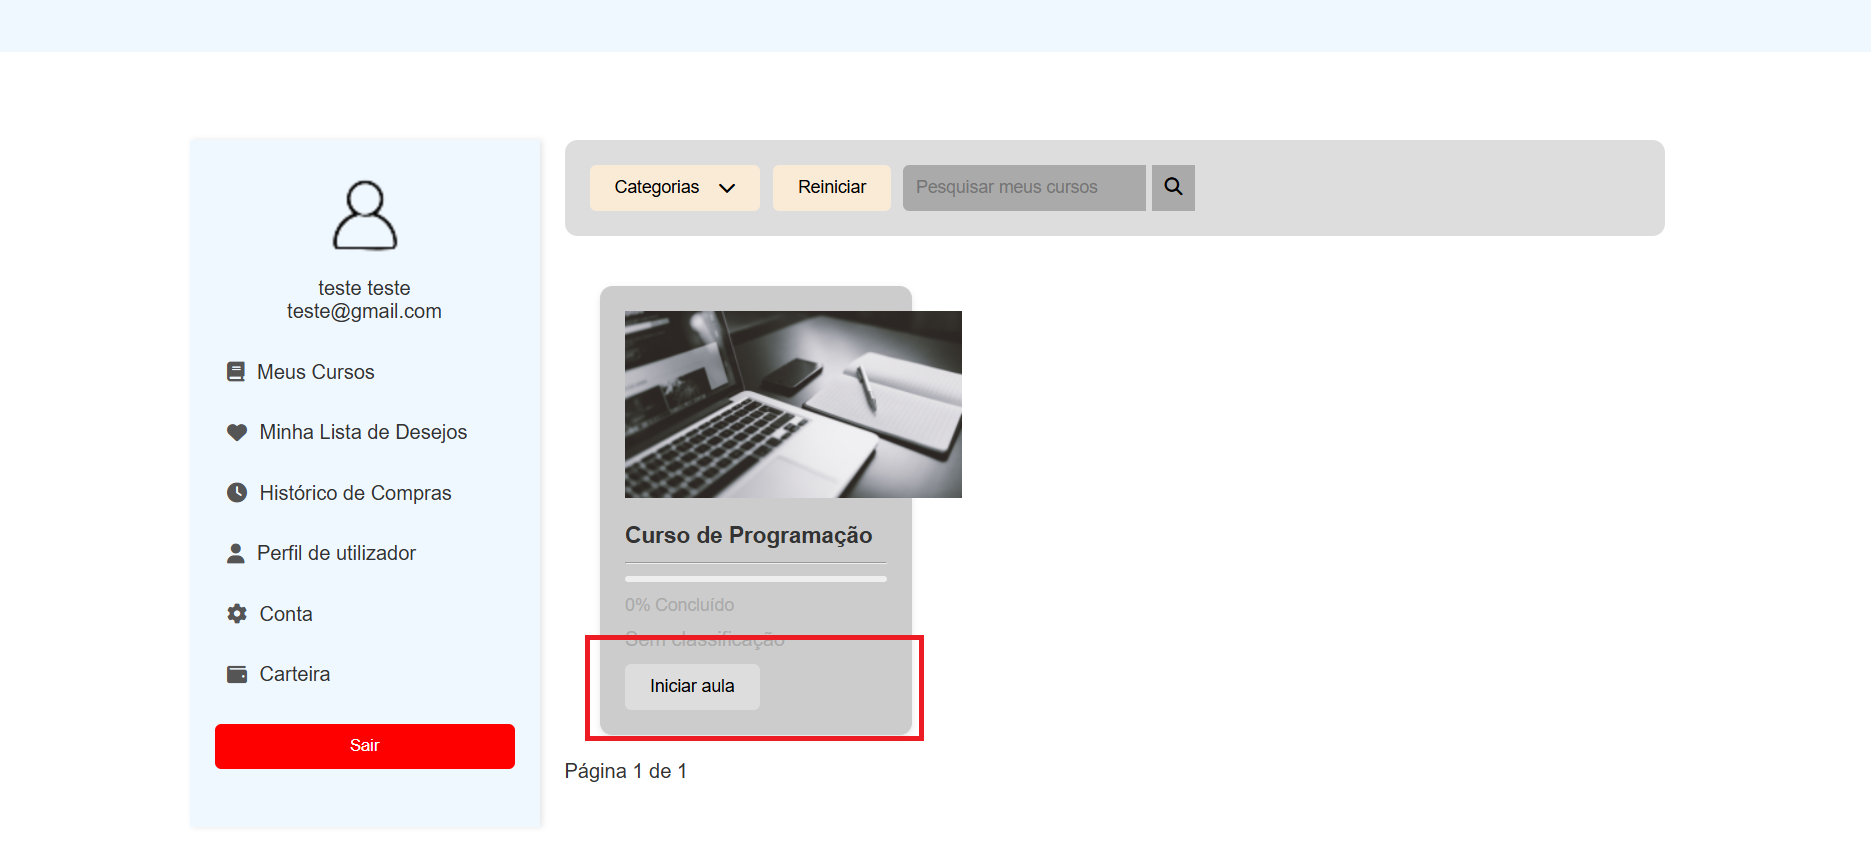
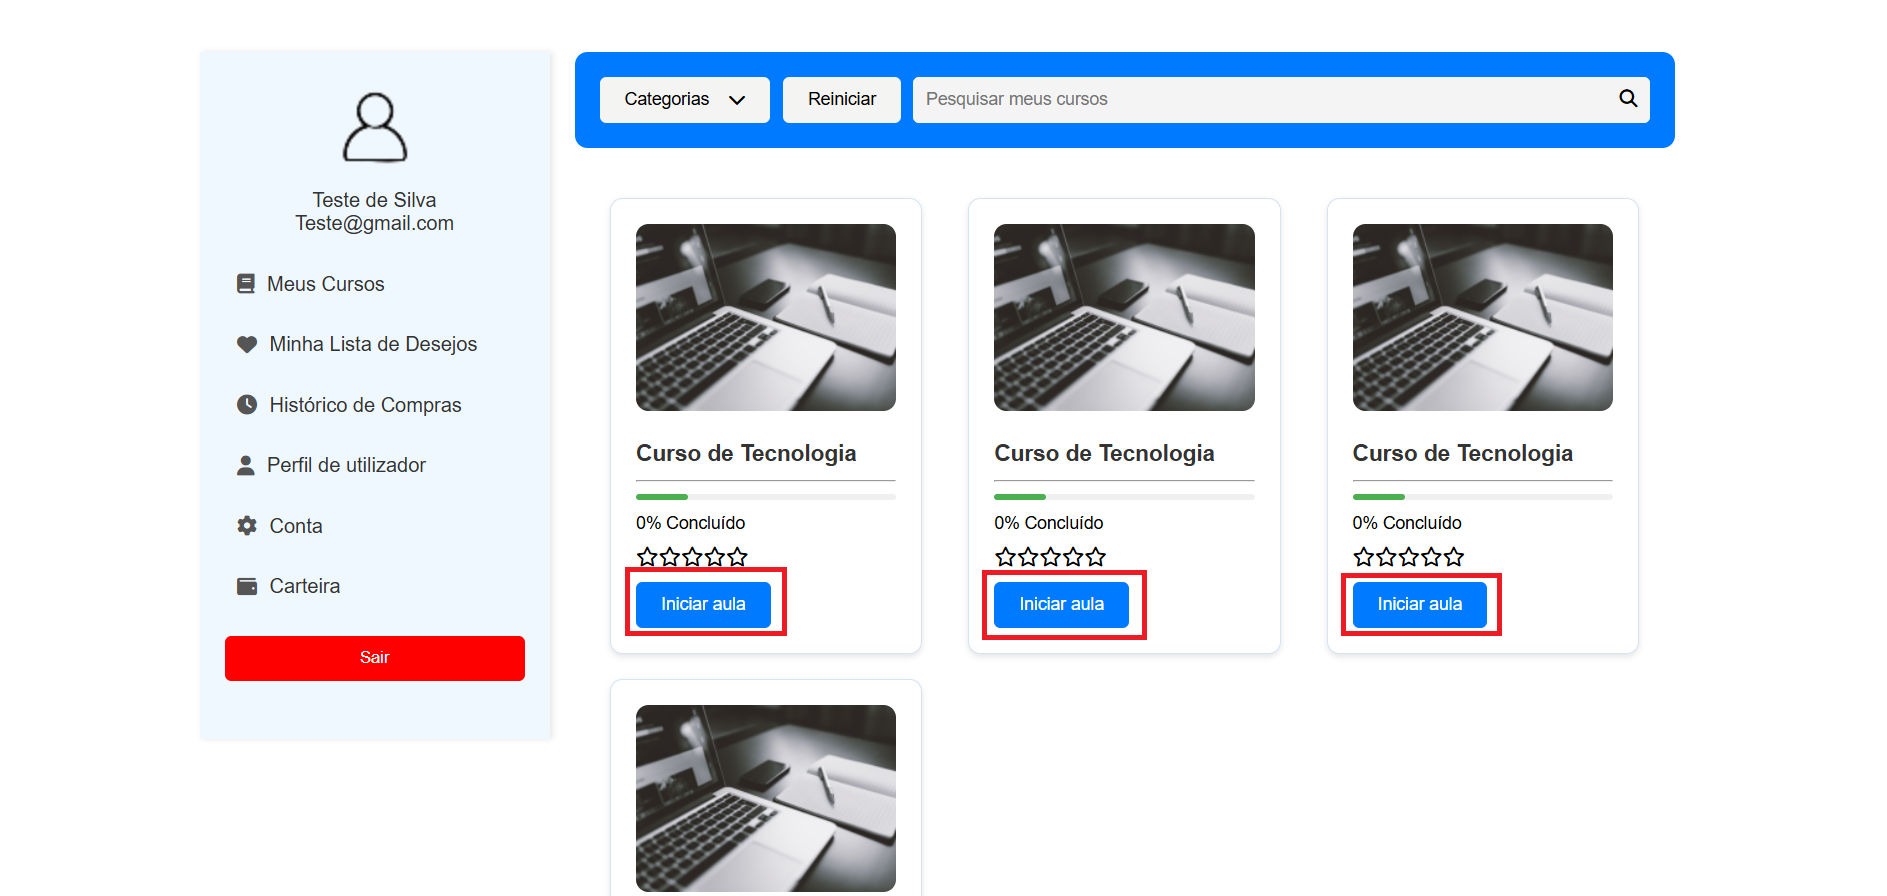
Update tutorial

diff --git a/src/views/layout/feitos/layout_perfil_curso.html b/src/views/layout/feitos/layout_perfil_curso.html
@@ -127,7 +127,9 @@
             </div>
         
             <div class="course-card">
-                <div class="course-image">  </div>
+                <div class="course-image"> 
+                    <img src="/assets/image/curso.png" alt="Erro">
+                 </div>
                 <div class="course-info">
                     <h3>Curso de Tecnologia</h3>
                     <hr>
@@ -143,7 +145,9 @@
             </div>
             
             <div class="course-card">
-                <div class="course-image">  </div>
+                <div class="course-image"> 
+                    <img src="/assets/image/curso.png" alt="Erro">
+                 </div>
                 <div class="course-info">
                     <h3>Curso de Tecnologia</h3>
                     <hr>
@@ -158,7 +162,9 @@
                 </div>
             </div>
             <div class="course-card">
-                <div class="course-image">  </div>
+                <div class="course-image"> 
+                    <img src="/assets/image/curso.png" alt="Erro">
+                 </div>
                 <div class="course-info">
                     <h3>Curso de Tecnologia</h3>
                     <hr>
